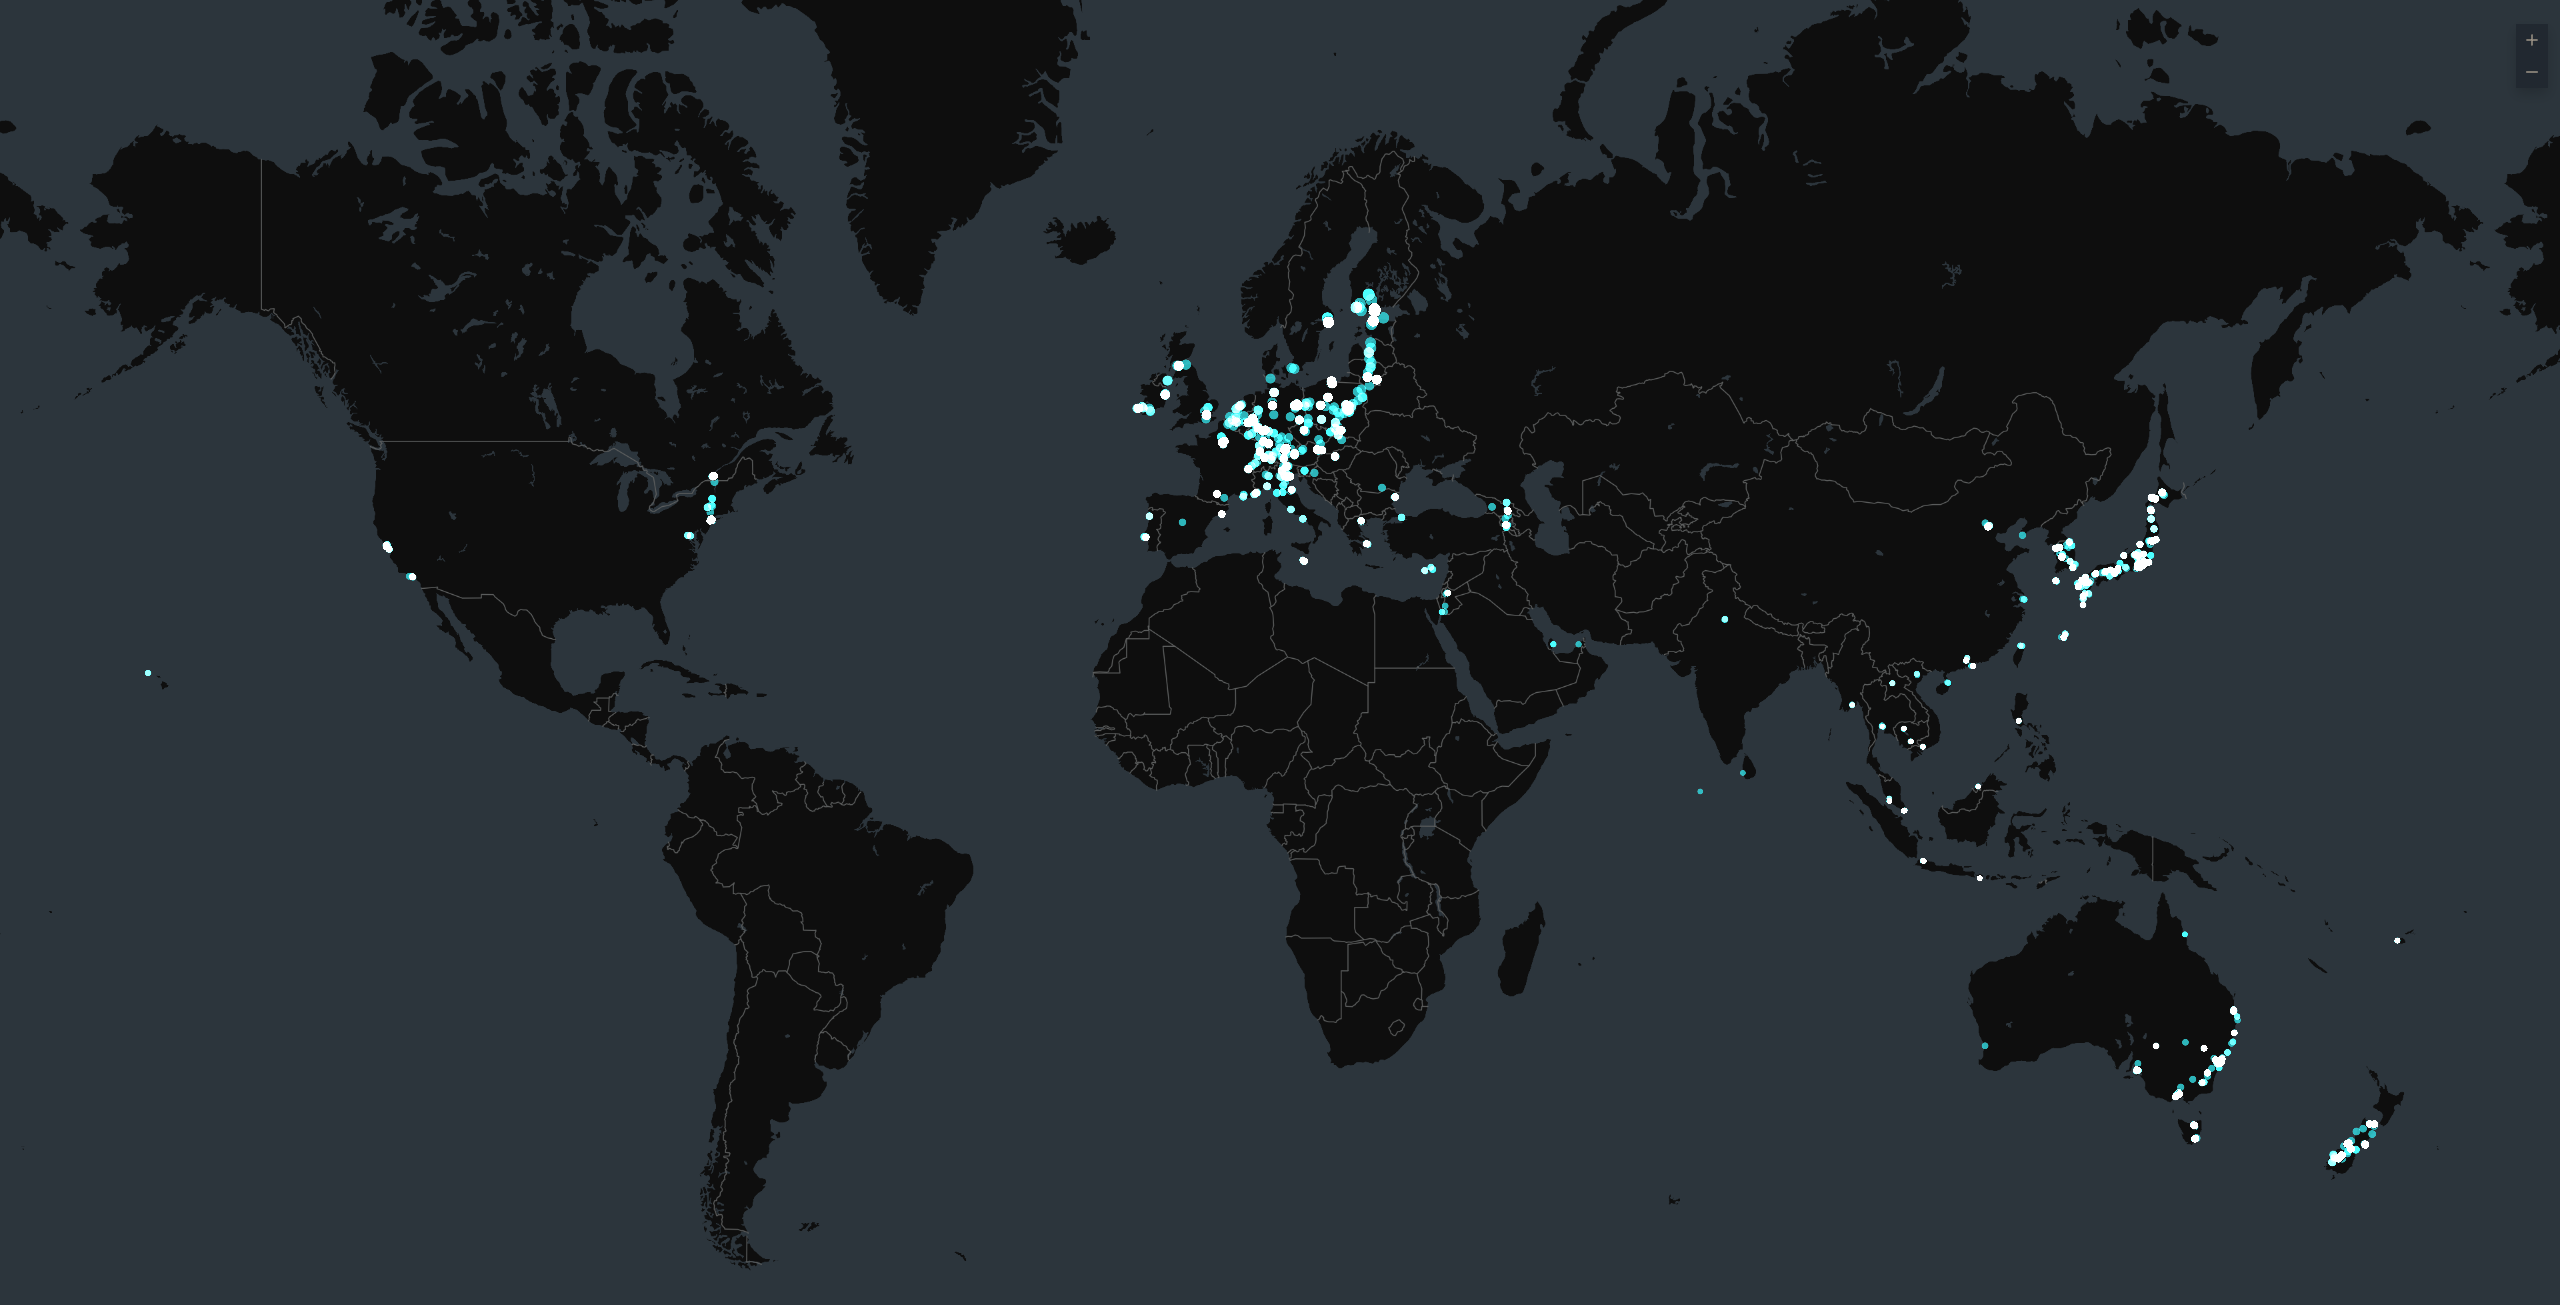
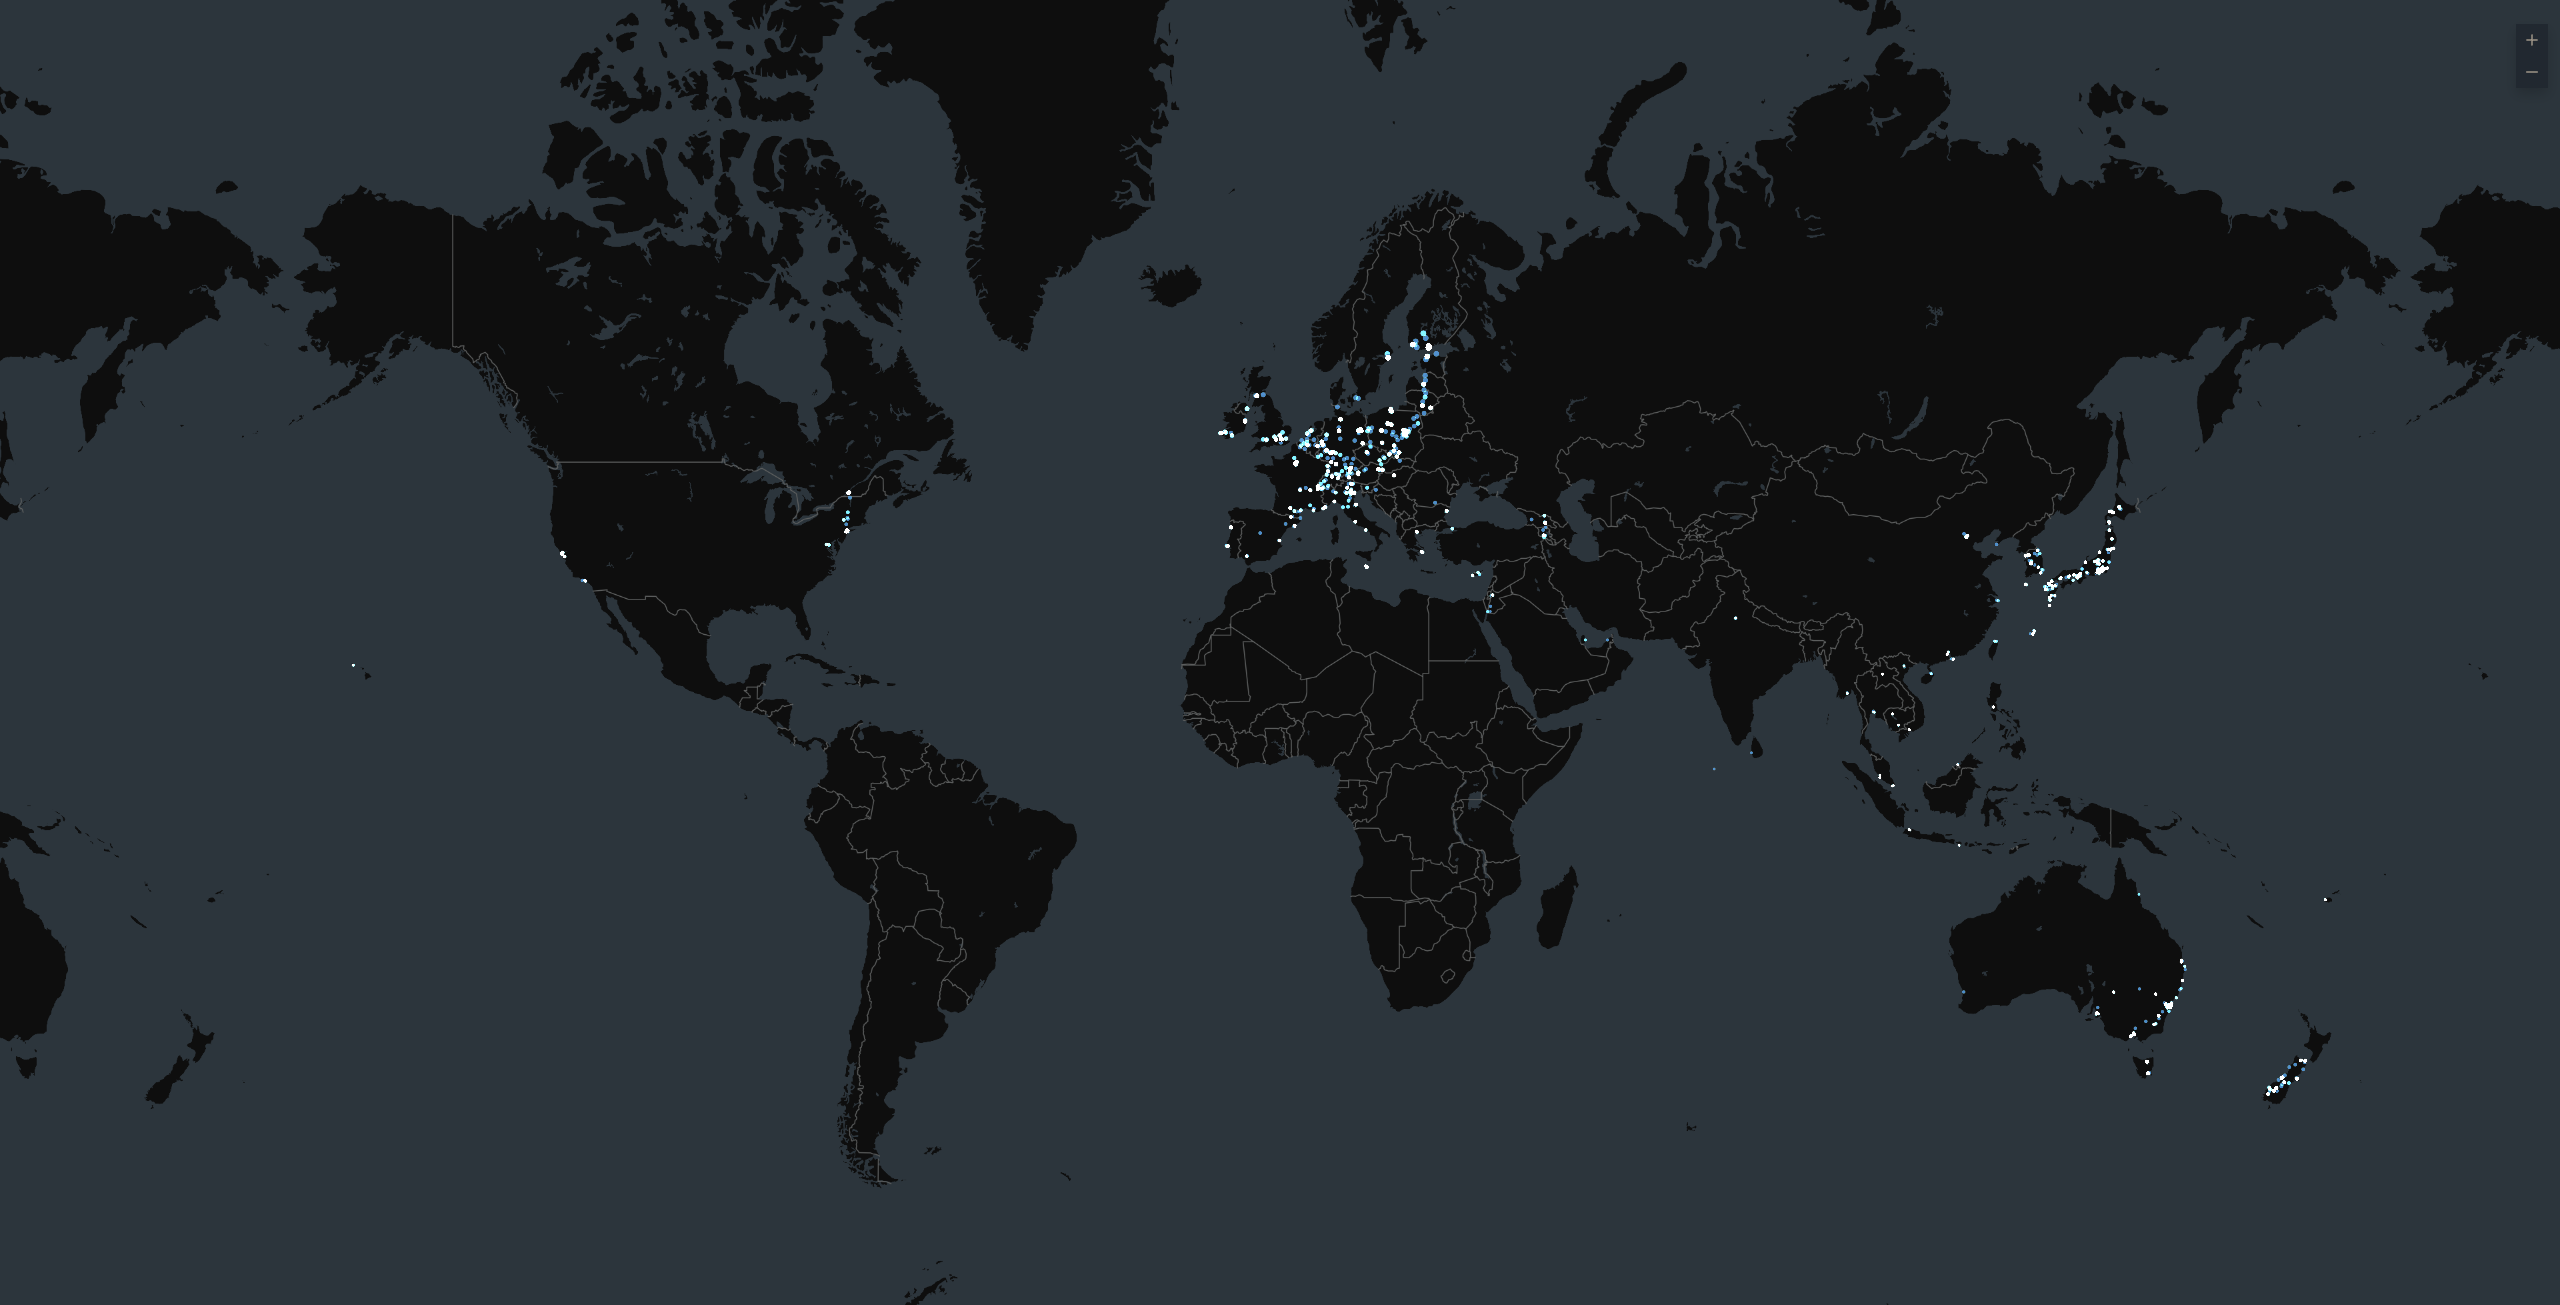
up
up

diff --git a/w/Me.html b/w/Me.html
@@ -144,7 +144,7 @@ margin-left:22.5vw !important;
 									<div class="col-md-4 mobcor">
 										<p class="arrr mober1"><a href="../images/map.png" class="popup-youtube">Map</a></p>
 										<a href="../images/map2.png" class="darken popup-youtube ho"><div class="text"><p class="arrr">Map</p></div><img class="swiper-lazy tilt zwei" src="../images/map.png" style="width:45vw"  id="n0"></a>
-										<p class="arrr mober"><a href="../images/map.png" class="popup-youtube">Visited 61 Countries</a></p>
+										<p class="arrr mober"><a href="../images/map.png" class="popup-youtube">Visited 62 Countries</a></p>
 									</div>
 								</div>
 								<div class="swiper-slide">
